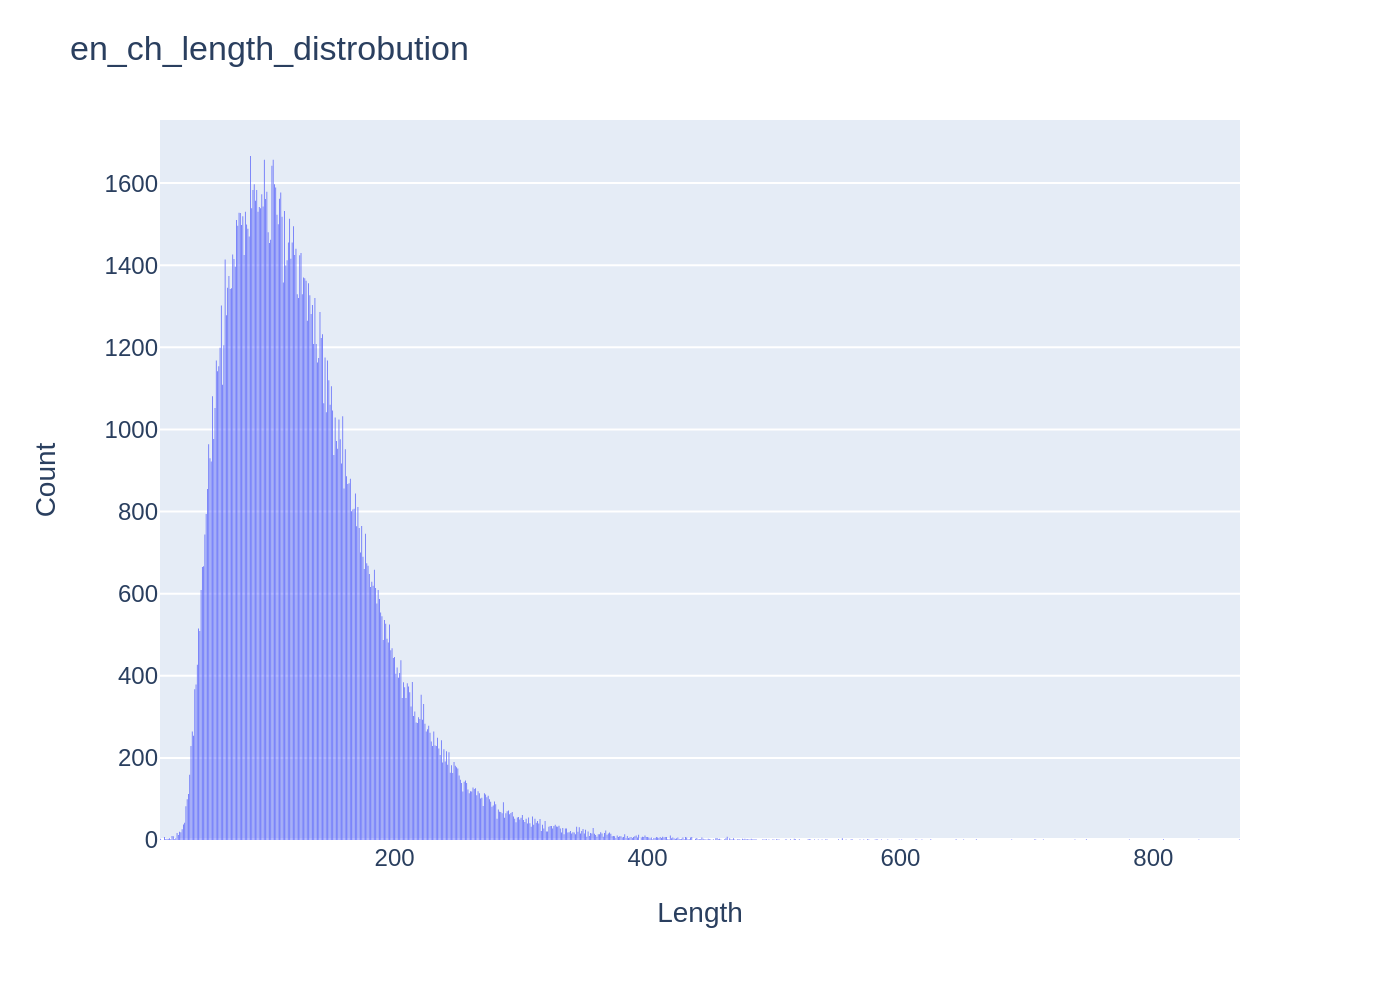
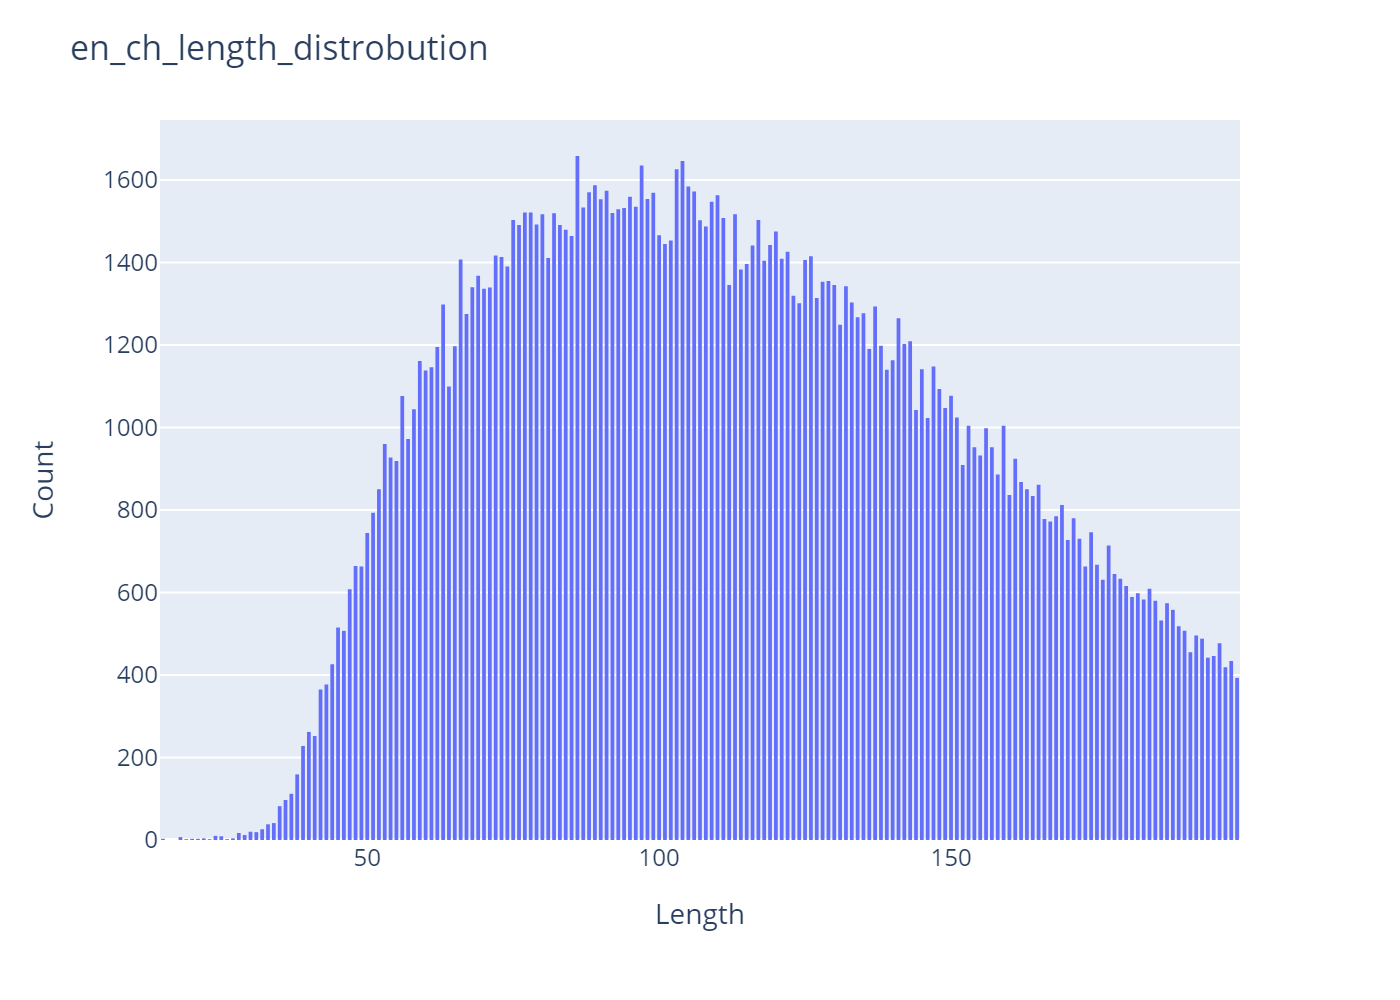
finish all eda

diff --git a/EDA.py b/EDA.py
@@ -8,23 +8,13 @@ import sparknlp
 from sparknlp.base import *
 from sparknlp.annotator import *
 from pyspark.ml import Pipeline
-
-
 from pyspark.sql import SparkSession
 from pyspark.sql.types import *
 
 
-# spark = sparknlp.start()
 
+spark = sparknlp.start()
 
-spark = SparkSession.builder \
-    .appName("Spark NLP")\
-    .master("local[4]")\
-    .config("spark.driver.memory","16G")\
-    .config("spark.driver.maxResultSize", "0") \
-    .config("spark.kryoserializer.buffer.max", "2000M")\
-    .config("spark.jars.packages", "com.johnsnowlabs.nlp:spark-nlp_2.12:4.0.2")\
-    .getOrCreate()
 
 def get_pipeline(col):
 
@@ -54,16 +44,12 @@ def get_pipeline(col):
 
 def extract_information(df, config):
 
-    df_general = pd.DataFrame({})
-
     fa_pip = get_pipeline('fa')
     en_pip = get_pipeline('en')
     
     fa = fa_pip.fit(df).transform(df).select("finished_token", 'fa')
     en = en_pip.fit(df).transform(df).select("finished_token", 'en')
 
-    result_fa = fa.collect()
-    result_en = en.collect()
 
     fa_tokens = []
     fa_length = []
@@ -73,28 +59,36 @@ def extract_information(df, config):
     en_length = []
     en_ch_length = []
 
+    result_fa = fa.collect()
 
     for item in result_fa:
         fa_tokens.extend(item.finished_token)
         fa_length.append(len(item.finished_token))
         fa_ch_length.append(len(item.fa))
+    
+    del result_fa
+    del fa
+
+    result_en = en.collect()
 
     for item in result_en:
         en_tokens.extend(item.finished_token)
         en_length.append(len(item.finished_token))
         en_ch_length.append(len(item.en))
+   
+    del result_en
+    del en
 
-
-    df_general = df_general.append({
+    df_general = pd.DataFrame({
         "fa_length": fa_length,
         "en_length": en_length,
         "fa_ch_length": fa_ch_length,
         "en_ch_length":en_ch_length,
         "fa_unique": [len(set(fa_tokens))] * df.count(),
         "en_unique": [len(set(en_tokens))] * df.count()
-    }, ignore_index=True)
+    })
 
-    df_general.to_csv(config['output_directory'] + '/general.csv')
+    df_general.to_csv(config['output_directory'] + '/general.csv', index=False)
 
 def data_gl_than(data, less_than=10, greater_than=0.0, col='fa_length'):
     data_length = data[col].values
@@ -111,6 +105,7 @@ def get_seq_len(df, col):
         data_glt_rate = data_gl_than(data=df, less_than=less_than, col=col)
         if data_glt_rate >= 92:
             return less_than
+    return -1
 
 def get_dataset_stat(df, config):
 
@@ -157,7 +152,7 @@ def draw_charts(df, config):
         try:
             name = col + "_distrobution"
             path = '{}/{}.png'.format(config['output_directory'], name)
-
+            df = df[df[col]<200]
             fig = go.Figure()
             fig = px.histogram(df, x=col)
             fig.update_layout(
@@ -175,32 +170,34 @@ def draw_charts(df, config):
 
 
 if __name__ == '__main__':
-    datasets = ['TEP', "TEP++", "Mizan", "OpenSubtitles", "PEPC_Bidirectional", "PEPC_Onedirectional"]
+    datasets = ['Mizan', 'PEPC_Bidirectional', 'PEPC_Onedirectional', 'TEP', 'TEP++', 'OpenSubtitles', 'Bible', 'Quran', 'ParsiNLU']
 
-    schema = StructType([StructField("fa", StringType(), True), StructField("en", StringType(), True)])
+    # schema = StructType([StructField("fa", StringType(), True), StructField("en", StringType(), True)])
+
+    # for d in datasets:
+    #     config_path = './Config/config_eda.json'
+
+    # with open(str(config_path), 'r+') as f:
+    #     config = json.load(f)
 
     for d in datasets:
-        config_path = './Config/config_eda.json'
+        config = {"file_path":"", "output_directory":""}
+        config['file_path'] = './drive/MyDrive/data/{}/en-fa.csv'.format(d)
+        config['output_directory'] = './data/{}/eda'.format(d)
 
-    with open(str(config_path), 'r+') as f:
-        config = json.load(f)
-    
-    # config['file_path'] = './drive/MyDrive/data/{}/en-fa.csv'.format(d)
-    # config['output_directory'] = './data/{}/eda'.format(d)
+        print(d)
 
-    print(d)
+        # os.makedirs(config['output_directory'], exist_ok=True)
 
-    os.makedirs(config['output_directory'], exist_ok=True)
+        # df = pd.read_csv(config['file_path'])
+        # df = spark.createDataFrame(df, schema=schema)
 
-    df = pd.read_csv(config['file_path'])
-    df = spark.createDataFrame(df, schema=schema)
+        # extract_information(df, config)
 
-    extract_information(df, config)
-
-    df = pd.read_csv(config['output_directory'] + '/general.csv')
-    get_dataset_stat(df, config)
-    draw_charts(df[['fa_length', 'en_length', 'fa_ch_length', 'en_ch_length']], config)
-    print("finish {}".format(d))
+        df = pd.read_csv(config['output_directory'] + '/general.csv')
+        # get_dataset_stat(df, config)
+        draw_charts(df[['fa_length', 'en_length', 'fa_ch_length', 'en_ch_length']], config)
+        print("finish {}".format(d))
 
 
 

diff --git a/data/README.md b/data/README.md
@@ -10,14 +10,17 @@
 
 <div align="center">
 
-|       datasets      |  train  |  dev |  test |   all   |
-|:-------------------:|:-------:|:----:|:-----:|:-------:|
-|        Mizan        | 1006430 | 5000 | 10166 | 1021596 |
-|  PEPC_Bidirectional |  175442 | 5000 | 19494 |  199936 |
-| PEPC_Onedirectional |  138005 | 5000 | 15334 |  158339 |
-|         TEP         |  72748  | 5000 |  8084 |  85832  |
-|        TEP++        |  515925 | 5000 | 57326 |  578251 |
-|    OpenSubtitles    | 1000000 | 2000 |  2000 | 1004000 |
+|       datasets      |   train   |  dev  |  test  |    all    |
+|:-------------------:|:---------:|:-----:|:------:|:---------:|
+|        Mizan        | 1,006,430 | 5,000 | 10,166 | 1,021,596 |
+|  PEPC_Bidirectional |  175,442  | 5,000 | 19,494 |  199,936  |
+| PEPC_Onedirectional |  138,005  | 5,000 | 15,334 |  158,339  |
+|         TEP         |   72,748  | 5,000 |  8,084 |   85,832  |
+|        TEP++        |  515,925  | 5,000 | 57,326 |  578,251  |
+|    OpenSubtitles    | 1,000,000 | 2,000 |  2,000 | 1,004,000 |
+|        Bible        |   51,329  | 5,000 |  5,704 |   62,033  |
+|        Quran        | 1,013,756 | 5,000 | 10,240 | 1,028,996 |
+|       ParsiNLU      | 1,617,271 | 2,138 | 48,123 | 1,667,532 |
 
 </div>
 
@@ -25,14 +28,17 @@
 <div align="center">
 Word level <b>Persian-English</b>
 
-|       dataset       | avg_fa | min_fa | max_fa | 92%_fa |  all_fa  | unique_fa | avg_en | min_en | max_en | 92%_en |  all_en  | unique_en |
-|:-------------------:|:------:|:------:|:------:|:------:|:--------:|:---------:|:------:|:------:|:------:|:------:|:--------:|:---------:|
-|        Mizan        |   13   |    1   |   232  |   26   | 13464236 |   131751  |   13   |    0   |   226  |   26   | 13360397 |   259182  |
-|    OpenSubtitles    |   10   |    1   |  1487  |   21   | 10284744 |   155874  |    9   |    1   |   839  |   20   |  9524220 |   342979  |
-|  PEPC_Bidirectional |   20   |    7   |   178  |   35   |  4163011 |   169637  |   21   |    7   |   153  |   36   |  4354619 |   142792  |
-| PEPC_Onedirectional |   22   |    7   |   178  |   37   |  3539183 |   158707  |   21   |    7   |   153  |   36   |  3359635 |   138489  |
-|         TEP         |    8   |    1   |   37   |   14   |  716113  |   22710   |    7   |    1   |   33   |   14   |  684242  |   36634   |
-|        TEP++        |    7   |    1   |   34   |   13   |  4445543 |   92037   |    8   |    0   |   32   |   14   |  4720821 |   57753   |
+|       dataset       | avg_fa | min_fa | max_fa | 92%_fa |   all_fa   | unique_fa | avg_en | min_en | max_en | 92%_en |   all_en   | unique_en |
+|:-------------------:|:------:|:------:|:------:|:------:|:----------:|:---------:|:------:|:------:|:------:|:------:|:----------:|:---------:|
+|        Bible        |   28   |    3   |   124  |   48   |  1,796,084 |   18,166  |   23   |    2   |   100  |   38   |  1,428,716 |   40,202  |
+|        Mizan        |   13   |    1   |   232  |   26   | 13,464,236 |  131,751  |   13   |    0   |   226  |   26   | 13,360,397 |  259,182  |
+|    OpenSubtitles    |   10   |    1   |  1,487 |   21   | 10,284,744 |  155,874  |    9   |    1   |   839  |   20   |  9,524,220 |  342,979  |
+|       ParsiNLU      |   11   |    1   |  7,989 |   24   | 19,397,145 |  198,460  |   12   |    1   | 15,156 |   23   | 20,328,220 |  441,282  |
+|  PEPC_Bidirectional |   20   |    7   |   178  |   35   |  4,163,011 |  169,637  |   21   |    7   |   153  |   36   |  4,354,619 |  142,792  |
+| PEPC_Onedirectional |   22   |    7   |   178  |   37   |  3,539,183 |  158,707  |   21   |    7   |   153  |   36   |  3,359,635 |  138,489  |
+|        Quran        |   29   |    1   |   373  |   61   | 30,235,077 |   28,380  |   33   |    1   |   772  |   74   | 34,227,828 |   92,976  |
+|         TEP         |    8   |    1   |   37   |   14   |   716,113  |   22,710  |    7   |    1   |   33   |   14   |   684,242  |   36,634  |
+|        TEP++        |    7   |    1   |   34   |   13   |  4,445,543 |   92,037  |    8   |    0   |   32   |   14   |  4,720,821 |   57,753  |
 
 </div>
 
@@ -44,15 +50,28 @@ Charachter level <b>Persian-English</b>
 
 |       dataset       | avgc_fa | minc_fa | maxc_fa | avgc_en | minc_en | maxc_en |
 |:-------------------:|:-------:|:-------:|:-------:|:-------:|:-------:|:-------:|
-|        Mizan        |    62   |    1    |   1242  |    59   |    1    |   986   |
-|    OpenSubtitles    |    43   |    1    |  17501  |    41   |    1    |  12213  |
+|        Bible        |   130   |    11   |   566   |   104   |    7    |   474   |
+|        Mizan        |    62   |    1    |  1,242  |    59   |    1    |   986   |
+|    OpenSubtitles    |    43   |    1    |  17,501 |    41   |    1    |  12,213 |
+|       ParsiNLU      |    53   |    1    |  38,339 |    54   |    1    |  75,246 |
 |  PEPC_Bidirectional |   105   |    23   |   870   |   127   |    15   |   868   |
 | PEPC_Onedirectional |   112   |    23   |   870   |   124   |    15   |   868   |
+|        Quran        |   135   |    3    |  1,725  |   148   |    2    |  3,312  |
 |         TEP         |    35   |    1    |   156   |    33   |    1    |   144   |
 |        TEP++        |    34   |    1    |   149   |    36   |    1    |   154   |
 
 </div>
 
+
+# ParsiNLU
+Persian word distrobution             |  English word distrobution
+:-------------------------:|:-------------------------:
+![](https://github.com/asartipi13/Persian-MT/blob/main/data/ParsiNLU/eda/fa_length_distrobution.png?raw=true)  |  ![](https://github.com/asartipi13/Persian-MT/blob/main/data/ParsiNLU/eda/en_length_distrobution.png?raw=true)
+
+
+Persian charachter distrobution             |  English charachter distrobution
+:-------------------------:|:-------------------------:
+![](https://github.com/asartipi13/Persian-MT/blob/main/data/ParsiNLU/eda/fa_ch_length_distrobution.png?raw=true)  |  ![](https://github.com/asartipi13/Persian-MT/blob/main/data/ParsiNLU/eda/en_ch_length_distrobution.png?raw=true)
 
 
 # TEP
